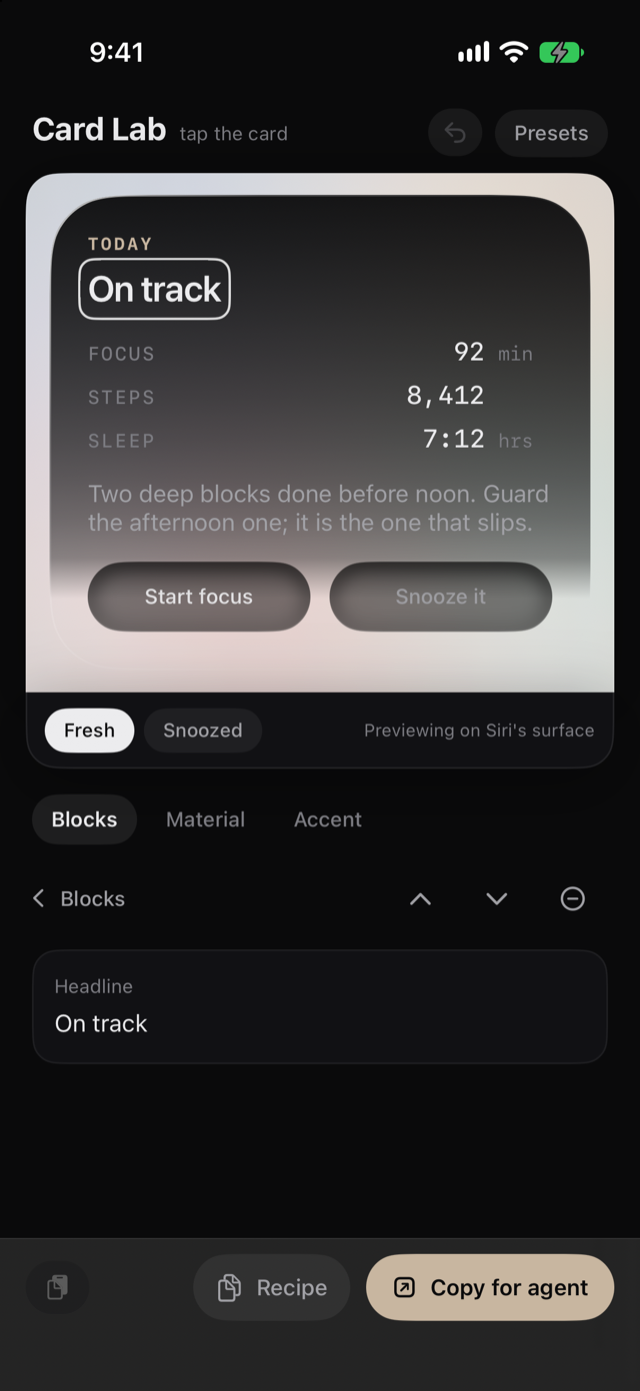
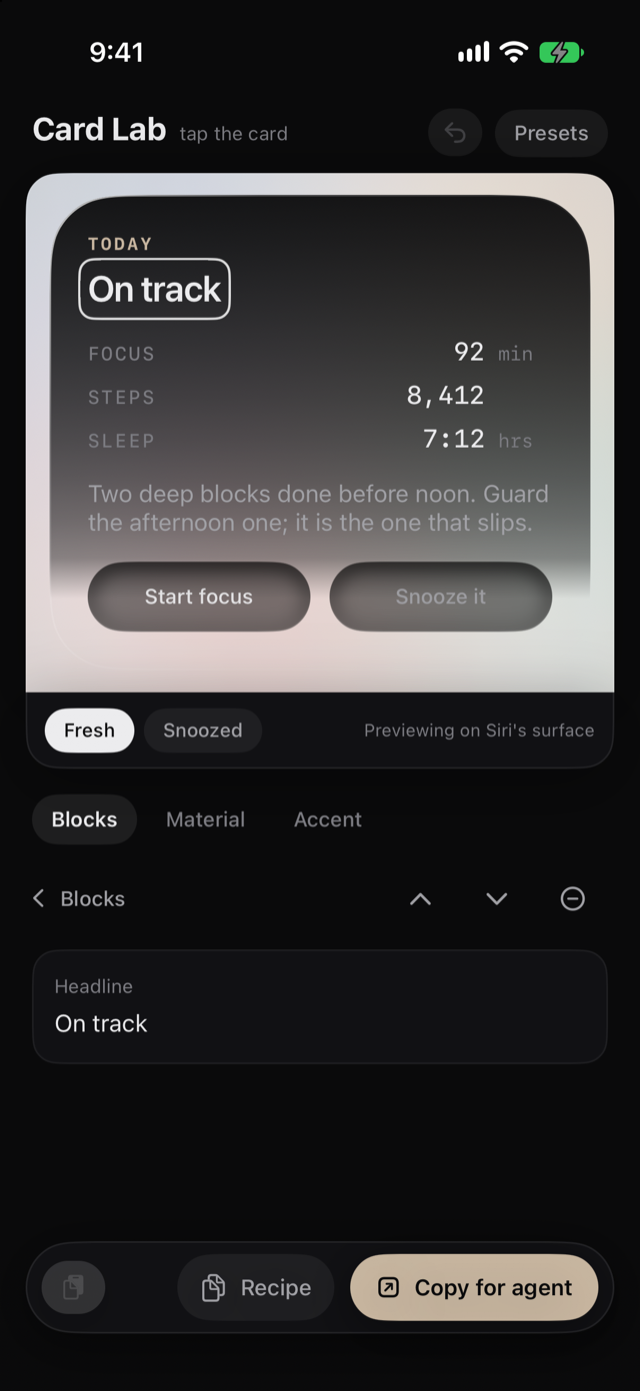
Fix: the action bar becomes a floating toolbar on a fade, media recaptured
Claude-Session: https://claude.ai/code/session_015Z5VJKDrfoLKvMnc5SfqC2

Changed region(s): [[0.0, 0.8656, 1.0, 1.0]]

diff --git a/Sources/CardKit/CardLab.swift b/Sources/CardKit/CardLab.swift
@@ -657,7 +657,7 @@ struct CardLab: View {
             }
             .labelStyle(.iconOnly)
             .buttonBorderShape(.capsule)
-            .tint(KitInk.bgSurface)
+            .tint(.white.opacity(0.08))
             .accessibilityLabel("Paste a recipe")
 
             Spacer(minLength: 0)
@@ -692,11 +692,26 @@ struct CardLab: View {
             }
             .buttonStyle(.plain)
         }
+        .padding(.horizontal, 10)
+        .padding(.vertical, 8)
+        .background(KitInk.bgSurface, in: Capsule())
+        .overlay {
+            Capsule().strokeBorder(.white.opacity(0.08), lineWidth: 1)
+        }
+        .shadow(color: .black.opacity(0.45), radius: 16, y: 6)
         .padding(.horizontal, 16)
-        .padding(.vertical, 10)
-        .background(.ultraThinMaterial)
-        .overlay(alignment: .top) {
-            Rectangle().fill(.white.opacity(0.08)).frame(height: 0.5)
+        .padding(.top, 6)
+        .padding(.bottom, 2)
+        .frame(maxWidth: .infinity)
+        .background {
+            // The floating toolbar sits on a fade, not a band: content
+            // melts into the ground before it reaches the controls.
+            LinearGradient(stops: [
+                .init(color: KitInk.bgBase.opacity(0), location: 0),
+                .init(color: KitInk.bgBase, location: 0.5),
+            ], startPoint: .top, endPoint: .bottom)
+            .padding(.top, -28)
+            .ignoresSafeArea()
         }
     }
 
